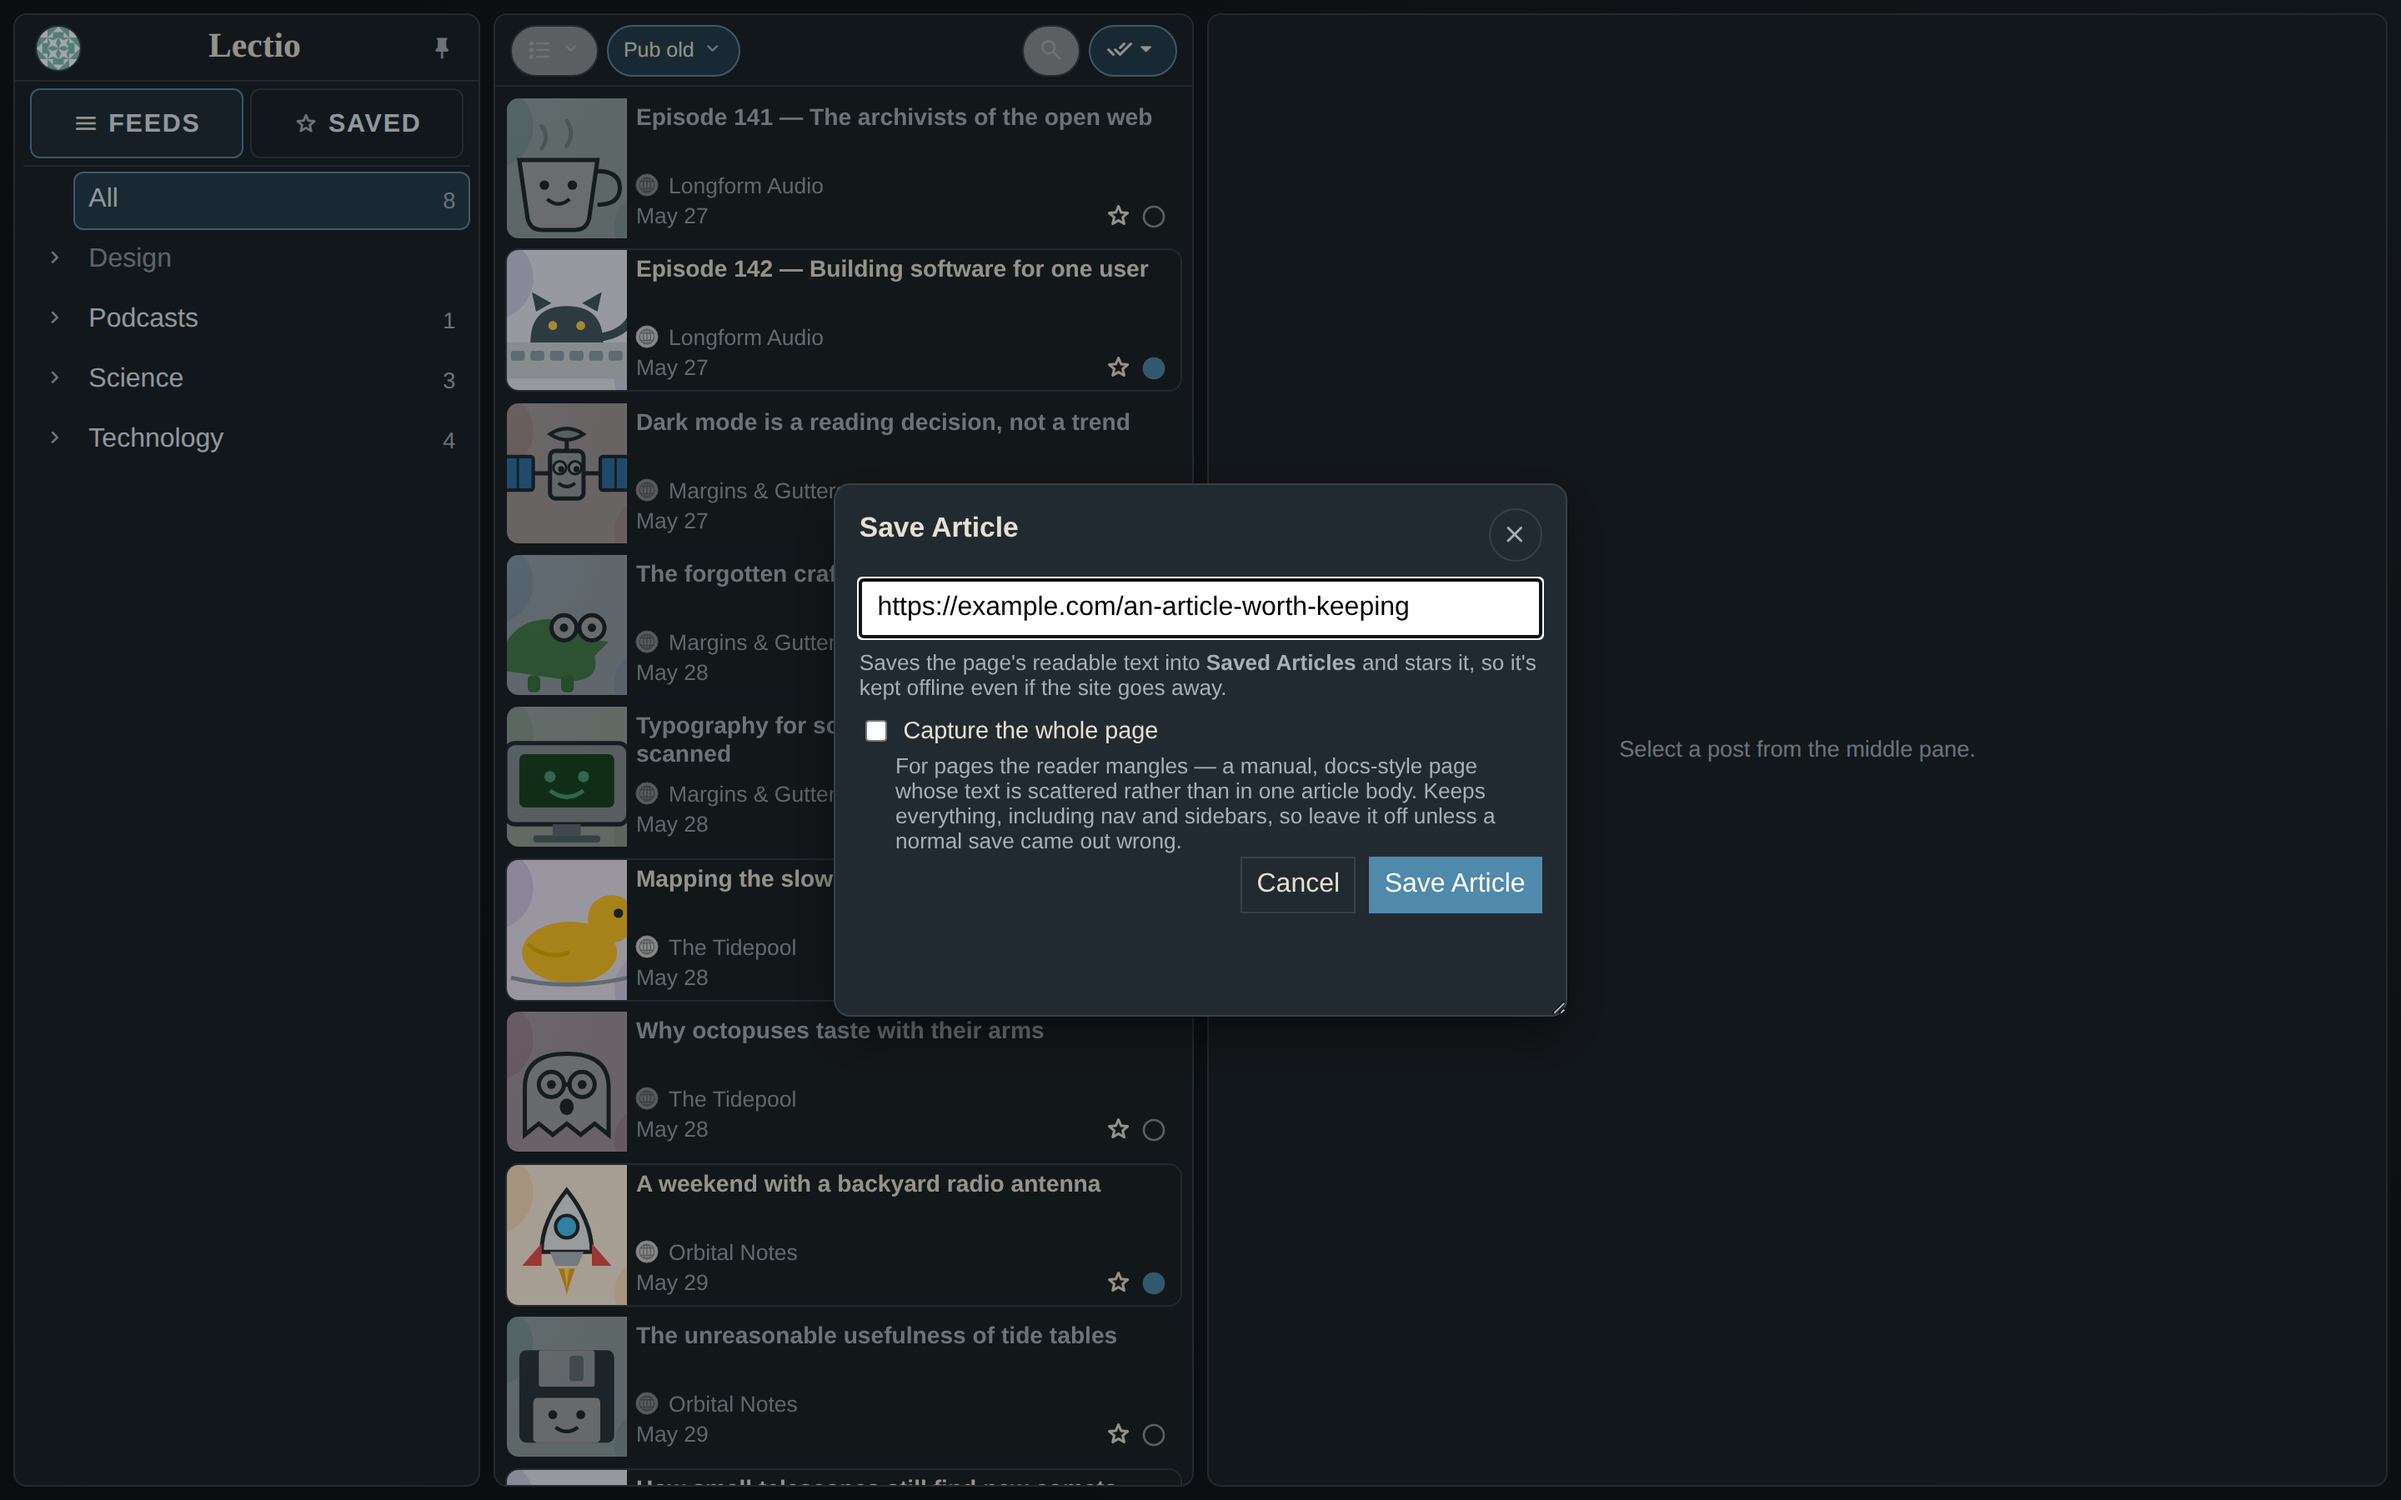
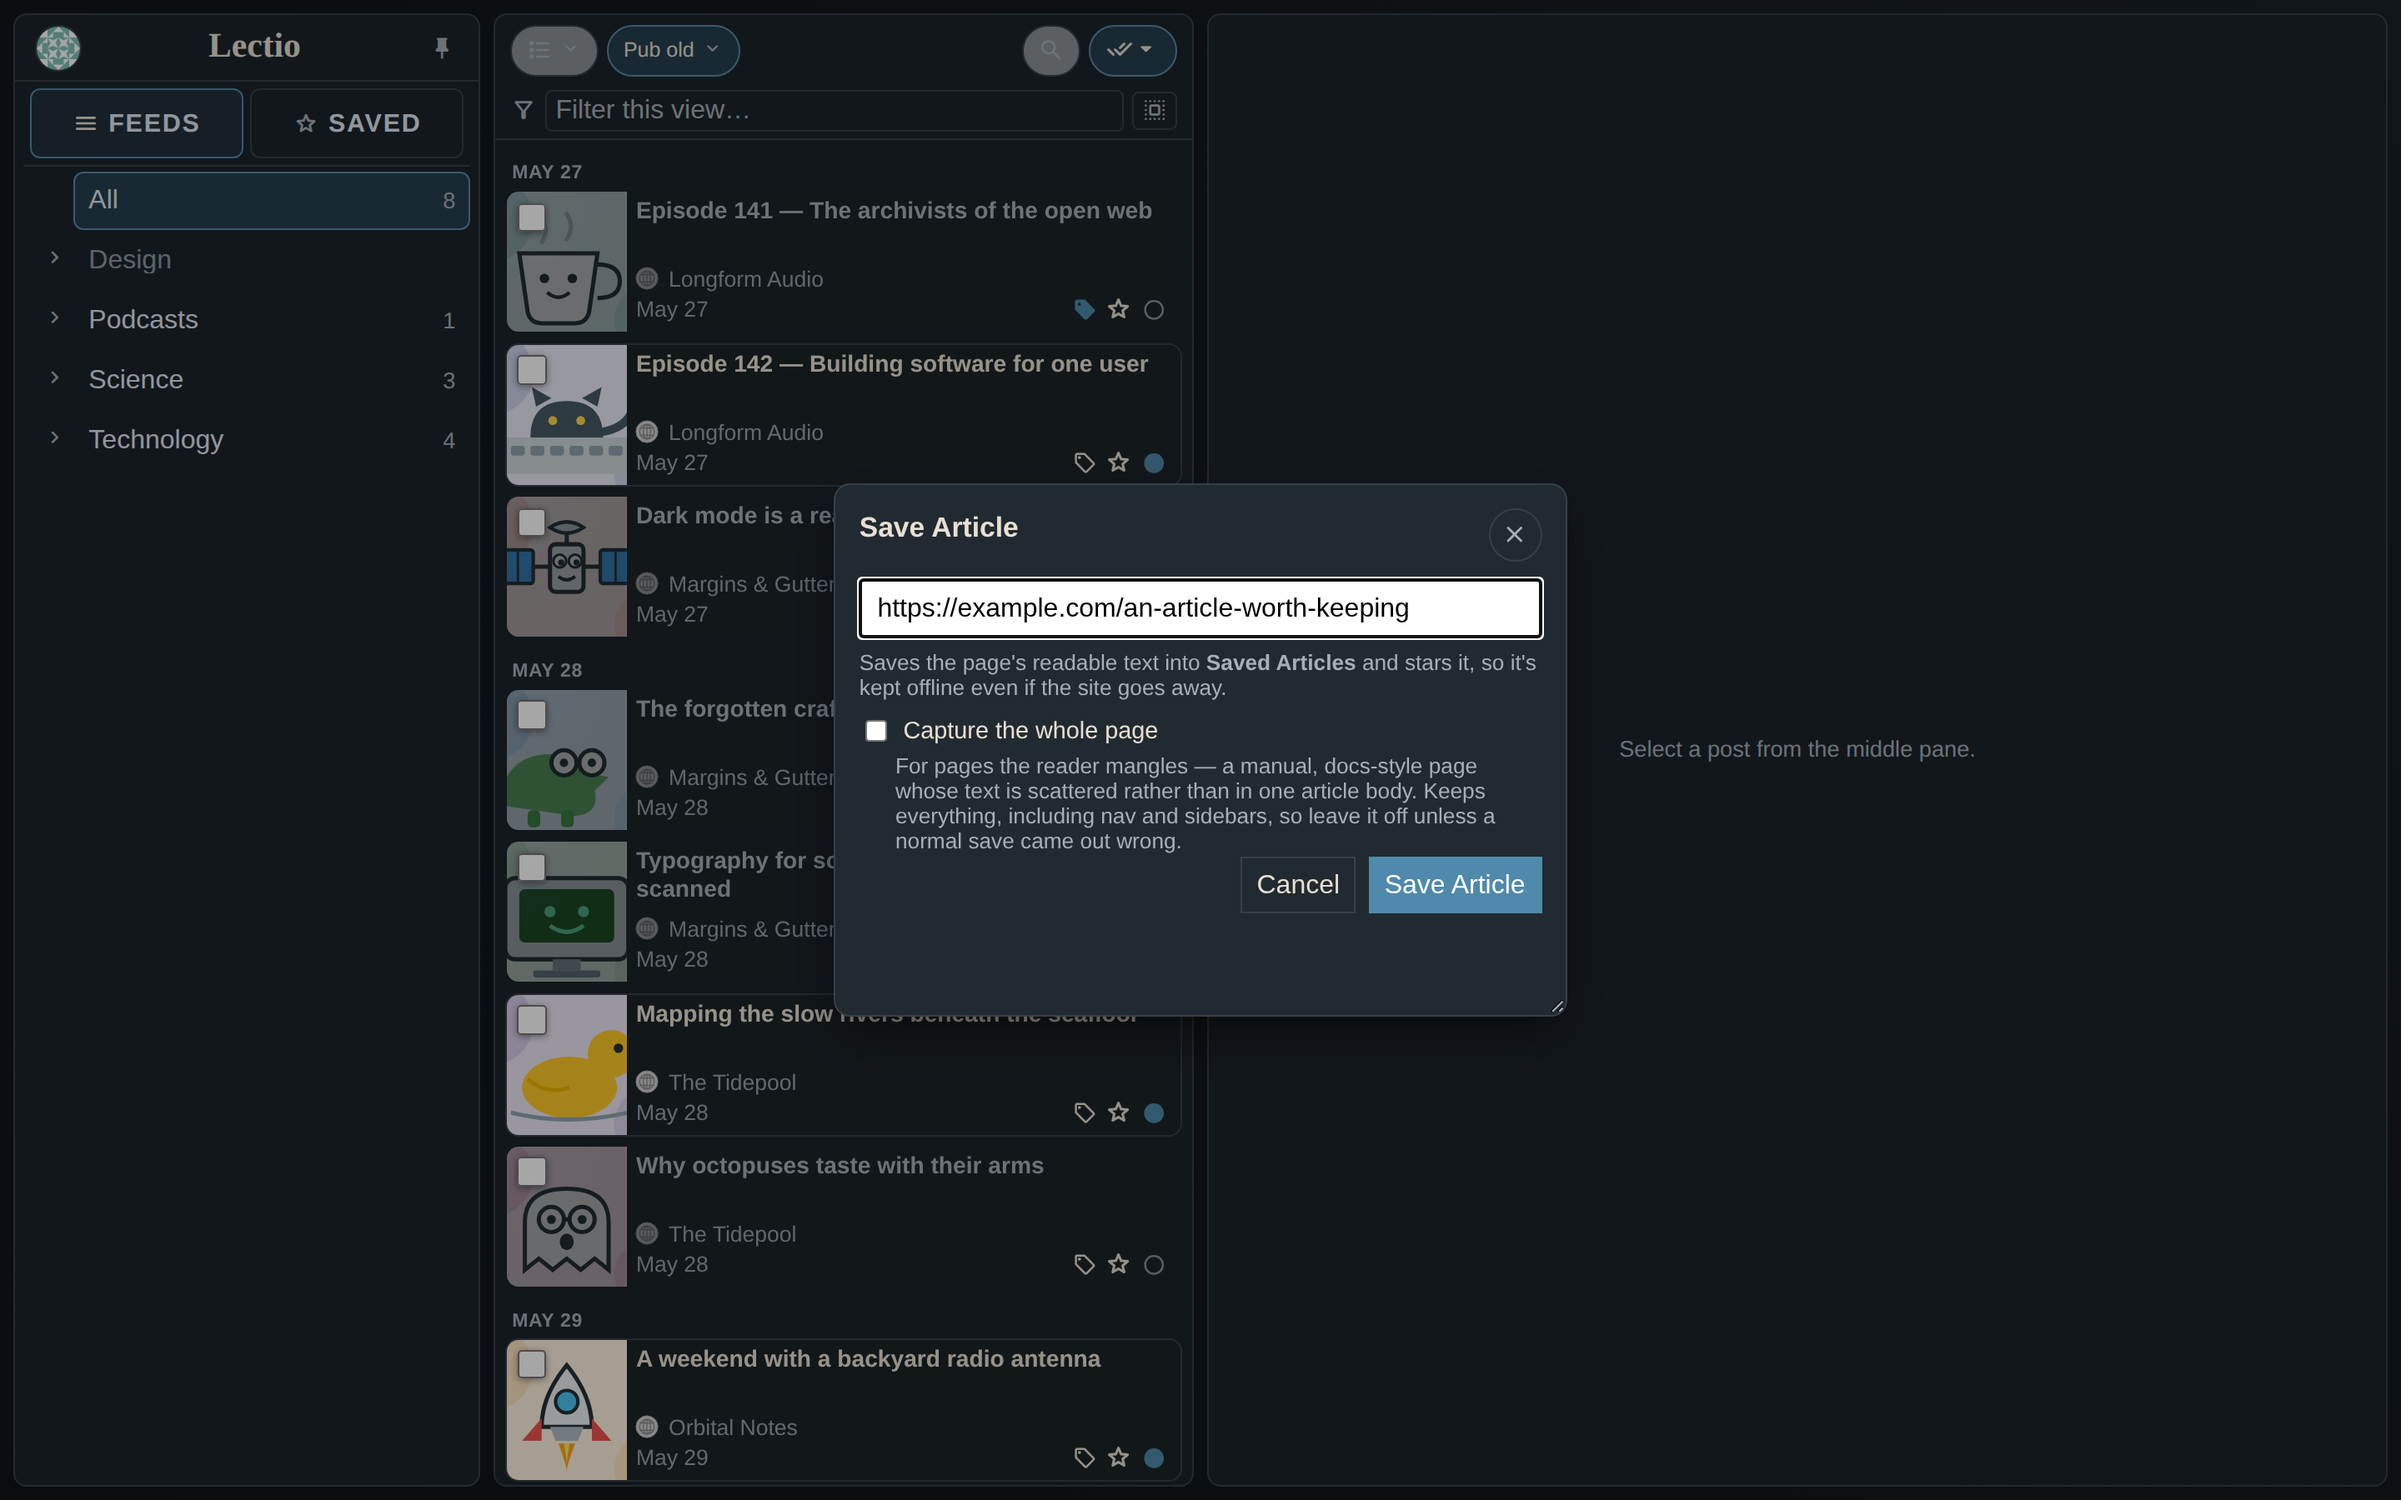
Refresh the documentation screenshots and add a right-click menu shot to the capture script

diff --git a/scripts/screenshots/capture.py b/scripts/screenshots/capture.py
@@ -255,4 +255,13 @@ def capture(base_url: str, out_dir: Path) -> None:
         _shoot(page, out_dir, "16savearticle.png", clip_selector="#save-article-modal")
         ctx.close()
 
+        # 17: right-click menu on a post in the list.
+        ctx, page = new_page("dark")
+        page.goto(base_url + "/?read_filter=all", wait_until="networkidle")
+        page.wait_for_timeout(400)
+        page.locator(".post-item").nth(1).click(button="right")
+        page.wait_for_timeout(300)
+        _shoot(page, out_dir, "17postmenu.png")
+        ctx.close()
+
         browser.close()

diff --git a/Plan.md b/Plan.md
@@ -39,18 +39,17 @@ escaped term to the matching character classes.
 (2026-09-25), with reachable-now rows left NULL as recapture candidates. Decided:
 1. ~~A "Capture failed" filter in Saved~~ (done 2026-10-19, Saved filter menu; also covers unsubscribed feeds).
 2. ~~Transient kinds retry~~ (done 2026-10-19, in nightly maintenance: 7+ days apart, 20 rows a night, 3 tries; then the row stays on the filter).
-3. Recapture the 20 reachable-now rows once with `scripts/recapture_archived_entries.py`, dry-run first and the list shown, since it rewrites the capture.
+3. ~~Recapture reachable-now rows~~ (dropped 2026-10-19: only 1 transient row left; the ~15k NULL rows can't be told apart without a full re-fetch sweep).
 
 ### YouTube facade thumbnail recovery skips `data-lazy-src` (2026-10-19)
 
 `_extract_source_embed_iframes` reads a facade's `<img>` from `src`/`data-src` only (found in review of the iframe `data-lazy-src` fix). A WP-lazyload facade
 with the thumbnail only in `data-lazy-src` isn't recovered. One-line fix; do it when a real feed shows it.
 
-### Refresh the screenshots (last 2026-08-09)
+### Unstar racing an in-flight capture can resurrect it (2026-10-19)
 
-`uv run python scripts/refresh_screenshots.py` is hermetic (synthetic demo data). Since August the UI gained tag-chip filtering in the filter bar,
-the Disabled chip in Automations, disabled-feed reasons, the grouped Utilities tab and regrouped right-click menus. Add one filter-bar shot and
-a right-click menu shot. Needs `uv run playwright install chromium` (the venv's Playwright wants a newer Chromium than the cached one).
+The final `UPDATE` in `_archive_entry` has no status guard, so an unstar that deletes the archive row while its capture is running can be
+overwritten back to `complete`. Pre-existing; found in review of the nightly retry. Guard the write on the row still existing.
 
 **Dated** — act on or after the date.
 
